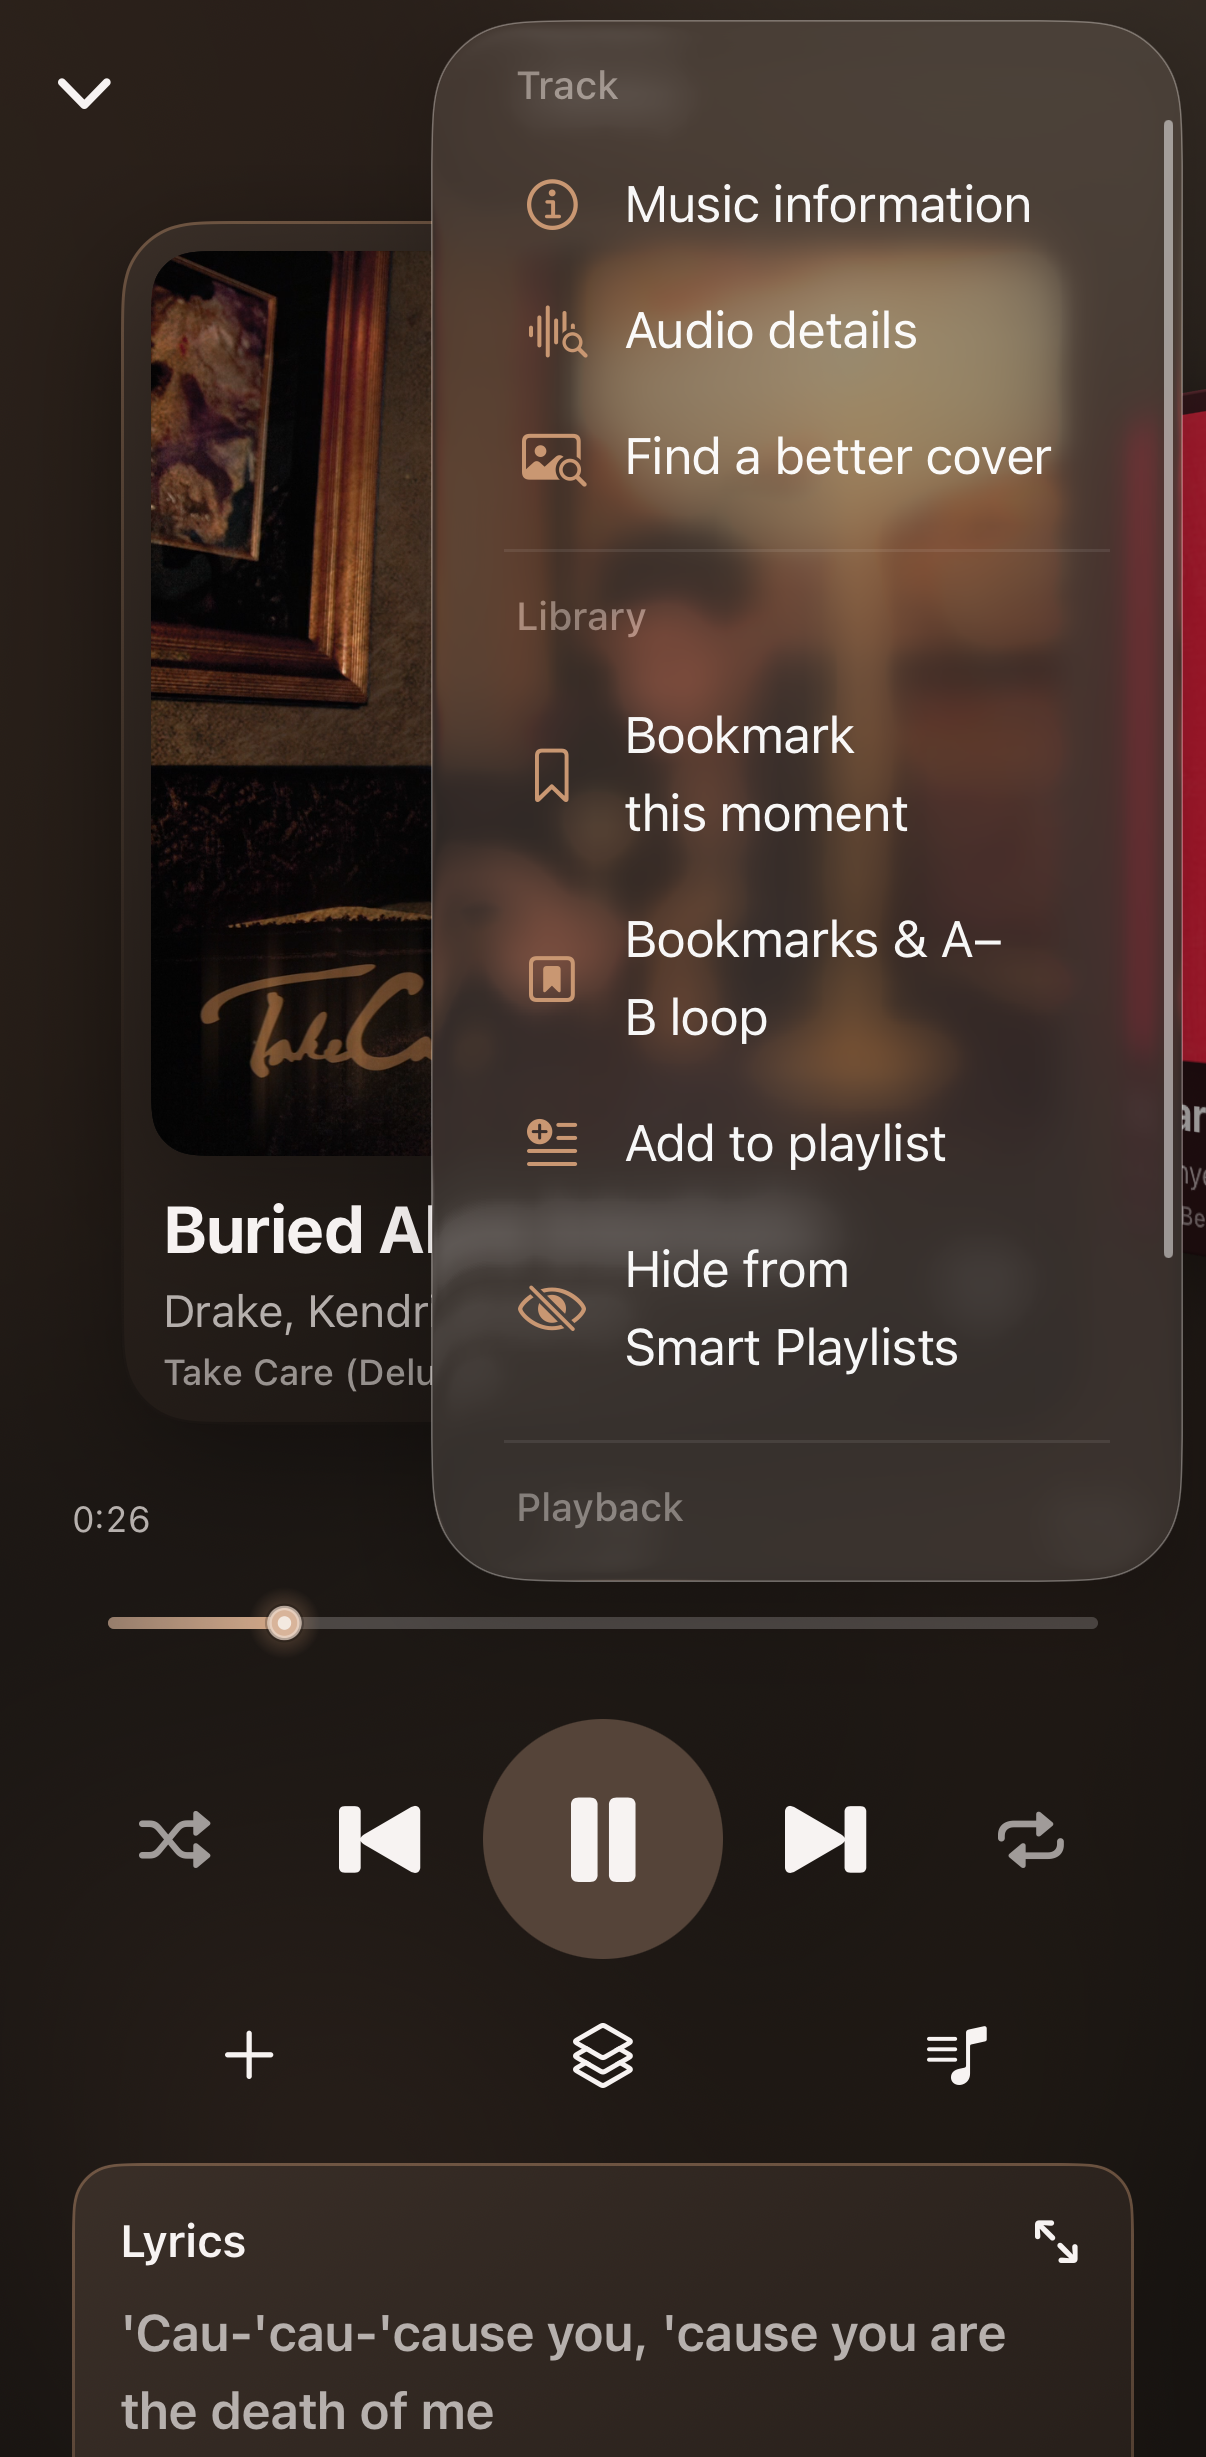
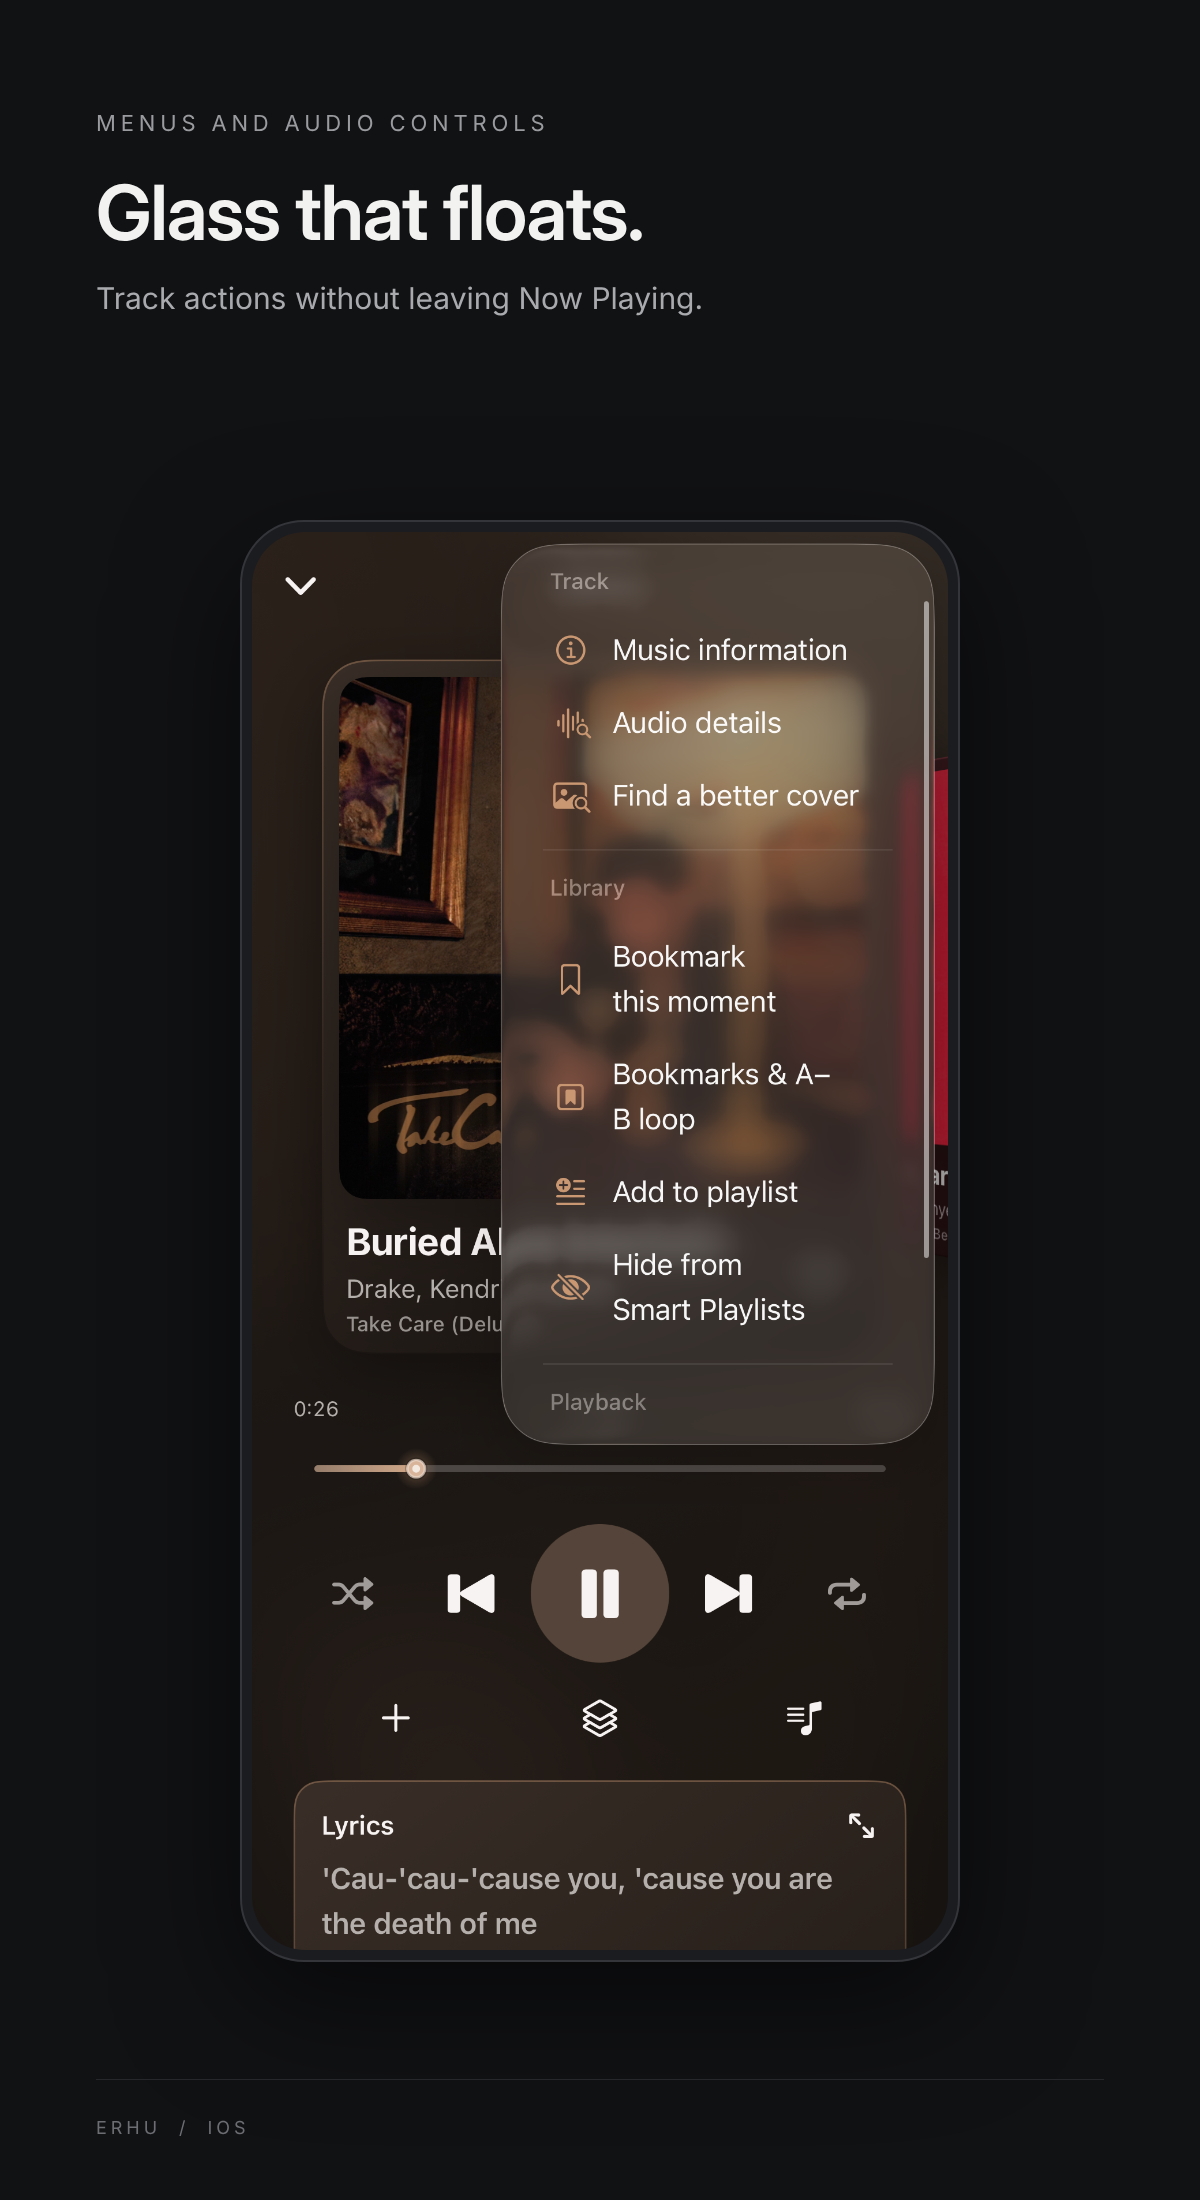
Style the README showcase images like the Android README [skip ci]
The screenshots move to images/showcase/raw and scripts/showcase/render.mjs
turns them into captioned cards with a phone frame, plus a new hero.

diff --git a/images/showcase/README.md b/images/showcase/README.md
@@ -1,8 +1,18 @@
 # README showcase images
 
-The images shown in the main [README](../../README.md). They are plain iPhone screenshots
-(1206 × 2457, status bar cropped) for now; replace each file with a styled version under the same filename and
-the README picks it up automatically.
+The images shown in the main [README](../../README.md).
+
+The PNGs here are styled cards (1200 × 2200, hero 2400 × 1500) made from the plain iPhone screenshots in
+[`raw/`](raw) (1206 × 2457, status bar cropped). To change one, replace its screenshot in `raw/` or edit its
+caption in [`scripts/showcase/render.mjs`](../../scripts/showcase/render.mjs), then run:
+
+```sh
+node scripts/showcase/render.mjs            # every card
+node scripts/showcase/render.mjs home hero  # just these
+```
+
+It needs Node, Playwright with Chromium, and the Inter font. The GIFs are cut from screen recordings and are not
+generated by the script.
 
 | File | Screen | README section |
 | --- | --- | --- |

diff --git a/README.md b/README.md
@@ -2,7 +2,7 @@
 
 An iPhone music player for your own collection.
 
-<img src="images/showcase/hero.png" alt="erhu Home and Now Playing on an iPhone" width="640">
+<img src="images/showcase/hero.png" alt="erhu Home and Now Playing on an iPhone" width="1200">
 
 ## Beta 1
 
